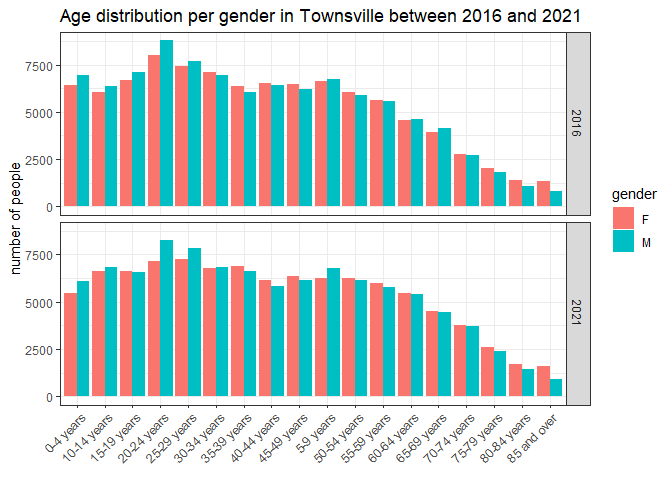
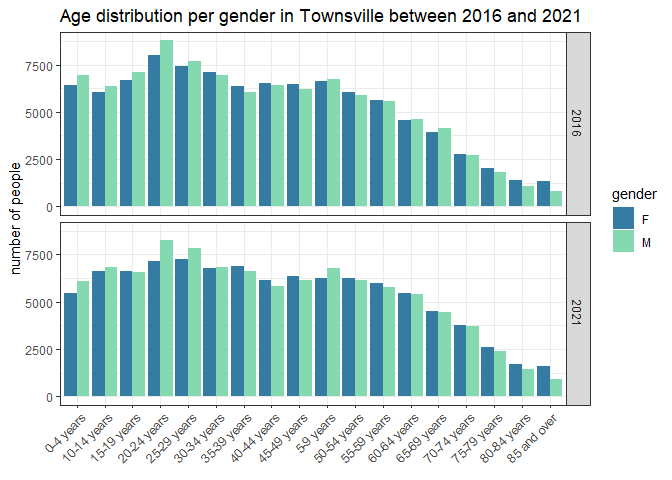
Changing colour palette used in color bar to colour-blind friendly option

Changed region(s): [[0.0938, 0.5, 0.8438, 0.8438], [0.0938, 0.0625, 0.8438, 0.4375], [0.9062, 0.4062, 0.9688, 0.5312]]

diff --git a/scripts_poc-data-api/Plotting_ABS_Census_Data_LGA_2021.md b/scripts_poc-data-api/Plotting_ABS_Census_Data_LGA_2021.md
@@ -425,6 +425,8 @@ towns_age <- townsville %>%
   ggplot(aes(age_class, number_ind, fill = gender))+
   #Showing gender columns next to each other 
   geom_col(position = position_dodge())+
+  #Choosing a colour-blind friendly palette
+  scale_fill_viridis_d(option = "G", begin = 0.5, end = 0.85)+
   #Showing data for each year in a different row
   facet_grid(year~.)+
   #Removing grey background
